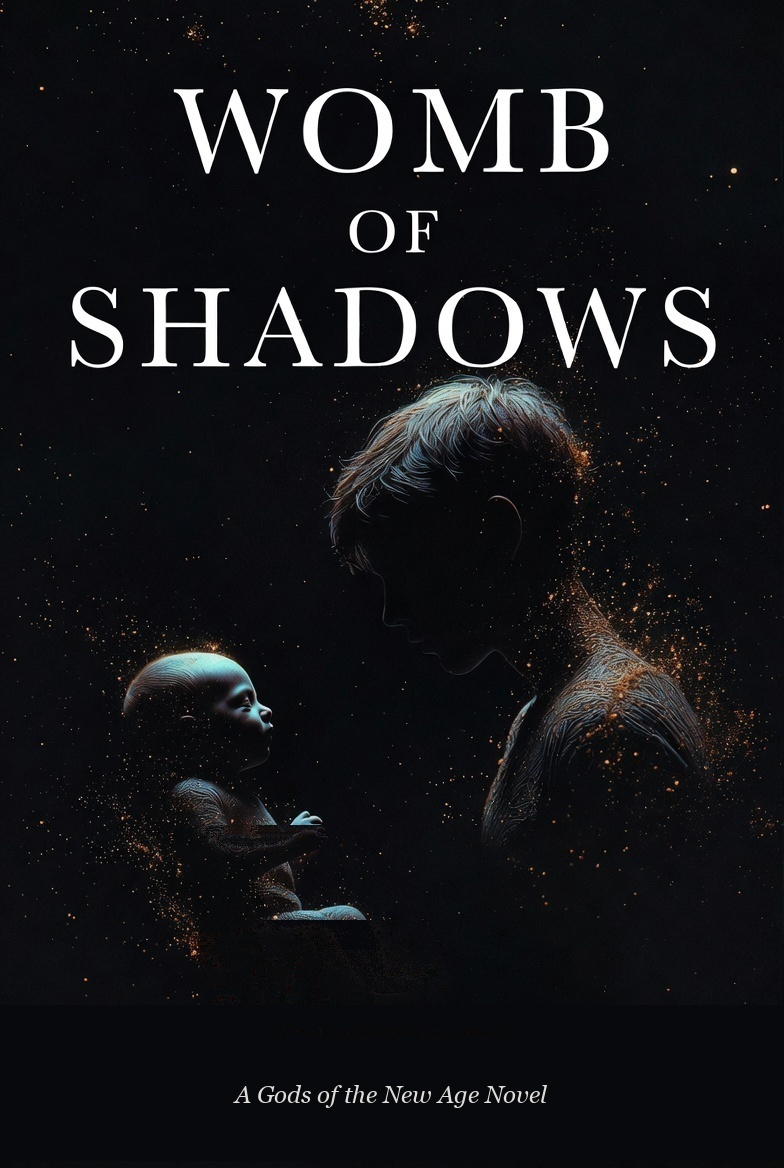
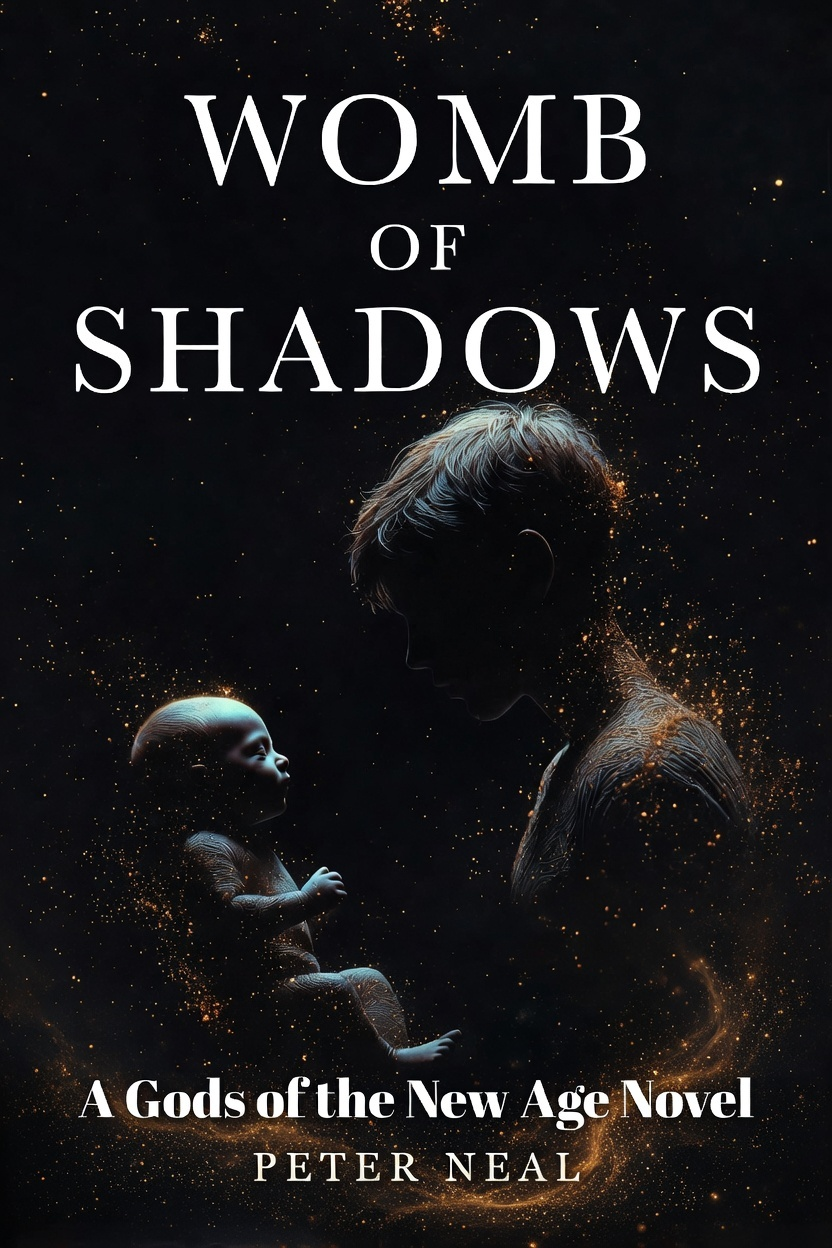
Update author name to Peter Neal across entire website
- Changed all instances of "Roguenealer Stevens" to "Peter Neal"
- Updated page title, hero section, author bio, and footer
- Updated cover image to match KDP covers (Peter Neal, no overlap)

diff --git a/index.html b/index.html
@@ -3,10 +3,10 @@
 <head>
     <meta charset="UTF-8">
     <meta name="viewport" content="width=device-width, initial-scale=1.0">
-    <title>Womb of Shadows — Gods of the New Age, Book One by Roguenealer Stevens</title>
+    <title>Womb of Shadows — Gods of the New Age, Book One by Peter Neal</title>
     <meta name="description" content="A dark literary sci-fi horror novel about a geneticist, a weapon that kills through tenderness, and a family trapped inside the thing they love. Available now on Amazon.">
-    <meta name="keywords" content="dark literary horror novel 2026, biological horror fiction, Gods of the New Age novel, Roguenealer Stevens, sci-fi horror, body horror book, womb of shadows">
-    <meta name="author" content="Roguenealer Stevens">
+    <meta name="keywords" content="dark literary horror novel 2026, biological horror fiction, Gods of the New Age novel, Peter Neal, sci-fi horror, body horror book, womb of shadows">
+    <meta name="author" content="Peter Neal">
 
     <!-- Open Graph -->
     <meta property="og:title" content="Womb of Shadows — Gods of the New Age, Book One">
@@ -62,7 +62,7 @@
             <div class="hero-text">
                 <p class="hero-subtitle">Gods of the New Age, Book One</p>
                 <h1 class="hero-title">Womb of<br>Shadows</h1>
-                <p class="hero-author">by Roguenealer Stevens</p>
+                <p class="hero-author">by Peter Neal</p>
                 <p class="hero-tagline">The compound doesn't just trap them.<br>It makes the trap feel like home.</p>
                 <div class="hero-actions">
                     <a href="https://www.amazon.com/dp/B0D6WY16L7" target="_blank" class="btn btn-primary">Buy Now on Amazon</a>
@@ -220,9 +220,9 @@
             <div class="section-label">About the Author</div>
             <div class="author-content">
                 <div class="author-text">
-                    <h2>Roguenealer Stevens</h2>
+                    <h2>Peter Neal</h2>
                     <p>
-                        Roguenealer Stevens writes at the intersection of literary fiction and biological
+                        Peter Neal writes at the intersection of literary fiction and biological
                         horror — stories where the science is real, the dread is quiet, and the monsters
                         are made of love.
                     </p>
@@ -290,7 +290,7 @@
         <div class="container">
             <div class="footer-inner">
                 <p class="footer-trilogy">Gods of the New Age, Book One &mdash; Book One of a Trilogy</p>
-                <p class="footer-copy">&copy; 2026 Roguenealer Stevens. All rights reserved.</p>
+                <p class="footer-copy">&copy; 2026 Peter Neal. All rights reserved.</p>
             </div>
         </div>
     </footer>
